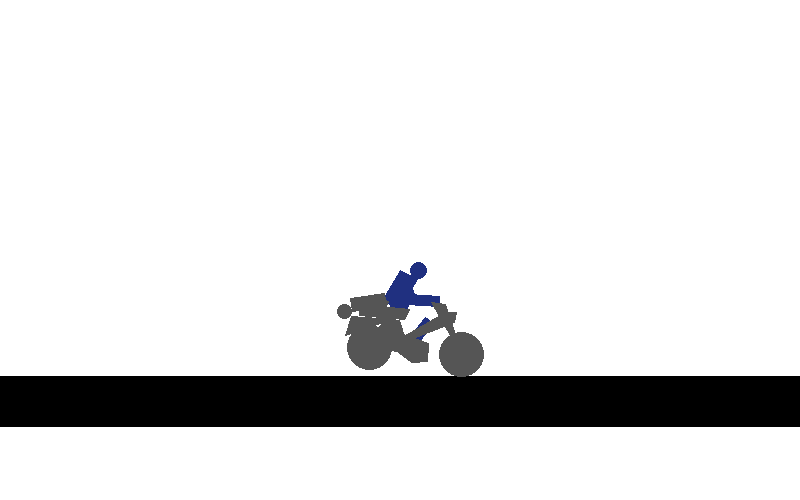
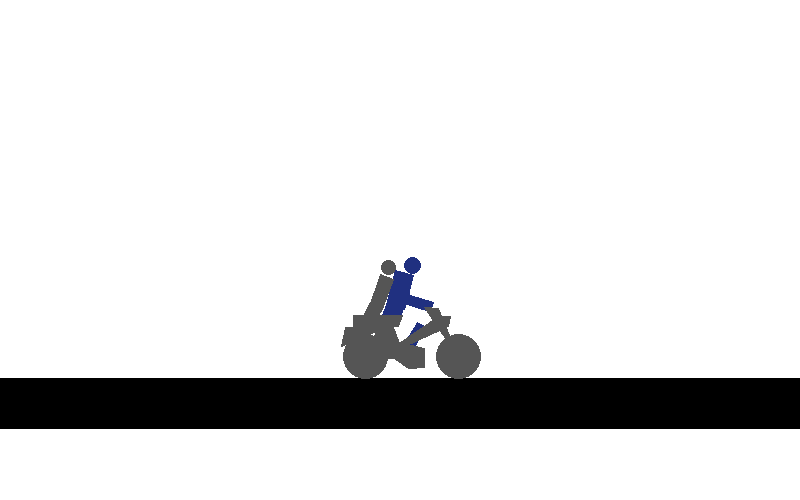
Dirt bike + girl match the real session: deferred girl joints, girl thuds, leg listeners in both contact orders

Changed region(s): [[0.0, 0.51, 1.0, 0.78], [0.0, 0.84, 1.0, 0.87], [0.5938, 0.69, 0.625, 0.72]]

diff --git a/crates/happywheels-core/tests/golden.rs b/crates/happywheels-core/tests/golden.rs
@@ -3869,7 +3869,7 @@ fn real_sessions_match_original() {
             for id in w.b2().c.contact_ids().collect::<Vec<_>>() {
                 let c = w.b2().c.contact_info(id);
                 let (s1, s2) = (&w.b2().c.shapes[c.shape1], &w.b2().c.shapes[c.shape2]);
-                eprintln!("CPRE bodies {} {} shapes {} {} n={}", s1.body, s2.body, c.shape1, c.shape2, c.manifold_count);
+                eprintln!("CPRE bodies {} {} shapes {} {} n={} flags={}", s1.body, s2.body, c.shape1, c.shape2, c.manifold_count, c.flags);
             }
             for (k, j) in w.b2().c.joints.iter().enumerate() {
                 if let box2d::joints::JointKind::Revolute(r) = &j.kind {
@@ -3891,6 +3891,15 @@ fn real_sessions_match_original() {
                 z: i == 170,
             });
             w.step();
+            if std::env::var("REALC").ok().and_then(|s| s.parse::<usize>().ok()).is_some_and(|f| f == i) {
+                for id in w.b2().c.contact_ids().collect::<Vec<_>>() {
+                    let c = w.b2().c.contact_info(id);
+                    if c.manifold_count > 0 {
+                        let (s1, s2) = (&w.b2().c.shapes[c.shape1], &w.b2().c.shapes[c.shape2]);
+                        eprintln!("TOUCH f{i} bodies {} {} flags={}", s1.body, s2.body, c.flags & 1);
+                    }
+                }
+            }
             if std::env::var("REALPRE").is_ok() && i == 0 {
                 for id in w.b2().c.contact_ids().collect::<Vec<_>>() {
                     let c = w.b2().c.contact_info(id);
@@ -3905,9 +3914,13 @@ fn real_sessions_match_original() {
             }
             heard.extend(w.take_sounds().into_iter().map(|s| (i, s.0)));
             heard.extend(w.take_scaled_sounds().into_iter().map(|s| (i, s.0)));
-            if first_bad.is_none() {
+            if first_bad.is_none() || std::env::var("REALMAX").is_ok() {
                 let mine: Vec<(f64, f64)> =
                     w.b2().c.bodies.iter().filter(|b| b.mass > 0.0).map(|b| (b.xf.position.x * 62.5, b.xf.position.y * 62.5)).collect();
+                if std::env::var("REALMAX").is_ok() && i >= 100 {
+                    let m = frame.as_array().unwrap().iter().map(|g| mine.iter().map(|m| (m.0 - g[0].as_f64().unwrap()).hypot(m.1 - g[1].as_f64().unwrap())).fold(f64::MAX, f64::min)).fold(0.0, f64::max);
+                    eprintln!("MAX {ch} {i} {m:.6}");
+                }
                 let mut bad_list = Vec::new();
                 for (gi, g) in frame.as_array().unwrap().iter().enumerate() {
                     let (gx, gy) = (g[0].as_f64().unwrap(), g[1].as_f64().unwrap());

diff --git a/crates/happywheels-core/src/vehicle.rs b/crates/happywheels-core/src/vehicle.rs
@@ -5126,7 +5126,7 @@ pub struct Girl {
 impl Girl {
     pub fn attach(world: &mut World, start_px: [f32; 2], guy_frame: BodyId, guy_chest: BodyId) -> Option<Self> {
         let guide = crate::character::subguide("c5_girl")?;
-        let doll = Ragdoll::spawn_full(world, &guide, start_px, false, 5.0, -2)?;
+        let mut doll = Ragdoll::spawn_full_deferred(world, &guide, start_px, false, 5.0, -2)?;
         let start = Vec2::new(f64::from(start_px[0]) / 62.5, f64::from(start_px[1]) / 62.5);
         let at = |name: &str| -> Option<Vec2> {
             let g = guide.get(name)?;
@@ -5139,6 +5139,7 @@ impl Girl {
             b.shape_mut(s).is_sensor = true;
         }
         let seat_shape = b.body(guy_frame).shapes.get(3).copied()?;
+        doll.finish_joints(world);
         for (limb, lo, hi) in [(Limb::Elbow1, -90.0, 0.0), (Limb::Elbow2, -90.0, 0.0), (Limb::Neck, -20.0, 0.0)] {
             doll.set_limits(world, limb, lo / deg, hi / deg);
         }
@@ -5238,7 +5239,8 @@ impl Girl {
         for (k, part) in [Part::UpperLeg1, Part::UpperLeg2].into_iter().enumerate() {
             let Some(&leg) = world.b2().body(self.doll.bodies[&part]).shapes.first() else { continue };
             for e in events {
-                if e.shape1 != leg || e.shape2 != self.seat_shape {
+                // a listener registered on a shape is called for contacts where it is shape2 too (with shape1/shape2 swapped)
+                if !((e.shape1 == leg && e.shape2 == self.seat_shape) || (e.shape2 == leg && e.shape1 == self.seat_shape)) {
                     continue;
                 }
                 match e.kind {

diff --git a/crates/happywheels-core/src/character.rs b/crates/happywheels-core/src/character.rs
@@ -330,6 +330,13 @@ impl Ragdoll {
         Self::spawn_inner(world, guide, start_px, mower_torso, ref_scale, group, false)
     }
 
+    /// Like `spawn_full` but without the joints (see `finish_joints`): for characters whose class changes shapes between `createBodies` and `createJoints`.
+    pub fn spawn_full_deferred(world: &mut World, guide: &Guide, start_px: [f32; 2], mower_torso: bool, ref_scale: f64, group: i16) -> Option<Self> {
+        let mut d = Self::spawn_inner(world, guide, start_px, mower_torso, ref_scale, group, true)?;
+        d.deferred = Some((guide.clone(), Vec2::new(f64::from(start_px[0]) / 62.5, f64::from(start_px[1]) / 62.5)));
+        Some(d)
+    }
+
     fn spawn_inner(world: &mut World, guide: &Guide, start_px: [f32; 2], mower_torso: bool, ref_scale: f64, group: i16, defer: bool) -> Option<Self> {
         let start = Vec2::new(f64::from(start_px[0]) / 62.5, f64::from(start_px[1]) / 62.5);
         let b = world.b2_mut();

diff --git a/crates/happywheels-core/src/physics.rs b/crates/happywheels-core/src/physics.rs
@@ -2072,6 +2072,11 @@ impl World {
                 dolls.push((&k.doll, false));
             }
         }
+        if let Some(crate::vehicle::Vehicle::Dirt(d)) = self.bike.as_ref() {
+            if let Some(g) = d.girl.as_ref() {
+                dolls.push((&g.doll, false));
+            }
+        }
         let mut thuds: Vec<(ShapeId, &'static str, Vec2)> = Vec::new();
         for ev in events.iter().filter(|e| e.kind == ContactEventKind::Add) {
             for (mine, other) in [(ev.shape1, ev.shape2), (ev.shape2, ev.shape1)] {

diff --git a/docs/PORT.md b/docs/PORT.md
@@ -763,3 +763,4 @@ HOMING MINE AUDIO: the mine requests `MineHover` and `HomingMineFind` when it ha
 - 2026-11-25 — Real-session goldens for all other vehicles: `analysis/golden-real.js` (generic: `window.__CFG={char:N}`; 200 frames, up 0..59, left 60..79, space 80..99, right 100..119, down 120..139, shift 140..149, ctrl 150..159, z at 170; flat ground) -> `tests/golden/real-{1,2,4..11}.json`; test `real_sessions_match_original` (`#[ignore]`, run `REALV=1 cargo test --test golden real_sessions -- --ignored`; bodies matched without order). First baseline against the port (first body off by >1e-3 px / sounds equal): char 1 wheelchair frame 127 (0.13 px) / yes; char 2 segway frame 0 (2.1 px) / no; char 4 frame 57 (0.001 px) / no (missing SegwayJump 80, 96, Thud2 113); char 5 frame 0 (4.1 px) / no; char 6 positions OK for all 200 frames, sounds no (extra BikeHit1 at 12, missing SegwayJump 80, Thud2 105/106/170); char 7 frame 122 (0.03 px) / no (Thud2 timing 152 vs 153); char 8 Santa frame 62 (0.001 px), port has 70 bodies vs 67, Step sounds differ in numbering; char 9 pogo positions OK, missing PogoRelease 20/57/100; char 10 frame 0 (0.18 px), no sounds at all; char 11 heli positions off from frame 1 (0.012 px, port has 15 bodies vs 13), sounds equal. These are the work list for the next items.
 - 2026-11-25 — Real-session fixes from the baseline above: (1) the pogo (char 9) now matches its real session completely (positions and sounds; the test only had to read the volume-scaled sound queue too); (2) the lawn mower (char 6) matches completely: its `contactAddSounds` are only frontShape (list index 2) ChairHit3, topShape (6) ChairHit2, seatShape1 (7) BikeHit3 and the wheels (the port had two extra guessed entries that played BikeHit1 at frame 12), and the cart and mower play `SegwayJump` when the shock motors start (space); (3) the `contactAddHandler` group test `(-10,0)` gates only `bodyContact`, NOT the sound buffer, so the rider's Thud filter by group was wrong (found through the cart: chest vs `mainShape3`, group -2, plays Thud2 in the real session). `analysis/debug-adds.js` logs every contactAddHandler call of a real session (shape names, masses, groups, closing speed) for such comparisons.
 - 2026-11-25 — Segway, pogo, mower and heli now match their real sessions (all 200 frames of positions, and sounds for segway/mower/pogo/heli). Root causes found with `analysis/debug-adds.js`, `analysis/dump-guides.js` and a trace of `PairAdded`/`Refilter`: (1) the original creates every body of the rider AND the vehicle before any joint (base `createJoints` runs after the vehicle's `createBodies`), and each joint with `collideConnected = false` re-creates the proxies of the lighter body (`RefilterProxy`), which reorders the contact list and so the solver order; the port made the rider's joints first. `Ragdoll::spawn_scaled` now defers them (`finish_joints`, called by every vehicle `attach` after its bodies, before its first `set_limits`); sub-characters (kid, daughter, son, girl) still build theirs at once. (2) Guide circles use `width / 2` of the clip (9.99 px base, e.g. the segway wheel radius 0.23976, not scale*5 = 0.24): guides now carry `[x, y, rot, scaleX, scaleY, width, height]` (`character-guides.json`, `character-subguides.json` padded with scale*10 where the oracle could not dump them) and only the segway wheel uses it so far (the BMX circles match with scale*5; other circles must be checked per vehicle). (3) The oracle's sound stub now returns a playing-sound object for the audiosprite length, otherwise `checkVocals` never sees a busy voice (the earlier Knee/Elbow vocal mismatch). `BoneBreak*`/`Step*` are random in the original and compared by family. The hand-built dirt, heli and segway goldens are `#[ignore]`d (superseded). Still failing against real sessions: char 1 chair (frame 127, 0.13 px), 4 cart (frame 57, 0.001 px; Thud2 timing), 5 dirt (frame 0, 2.3 px; sounds), 7 grinder (frame 122), 8 Santa (frame 62; Step sound numbers), 10 family (frame 0, 0.18 px; no sounds).
+- 2026-11-25 — Dirt bike with the girl (char 5) now matches its real session for all 200 frames (positions to <1e-3 px, sounds exactly). Three causes: the girl's rider joints must be created after her sensor flags are set (her class sets the leg/arm shapes to sensors in `createBodies`, the base joints come in `createJoints`: `Ragdoll::spawn_full_deferred` + `finish_joints`), the girl plays her own `Thud*` (added to the rider/kid list in `collect_thuds`), and the girl's `leg1Stuck/leg1Free` listeners are called for contacts where the leg is the contact's shape2 as well (the port only looked at shape1, so `legsFree` never ran and her legs stayed sensors). Remaining failures against real sessions: chair (1), cart (4), grinder (7), Santa (8), family (10).
